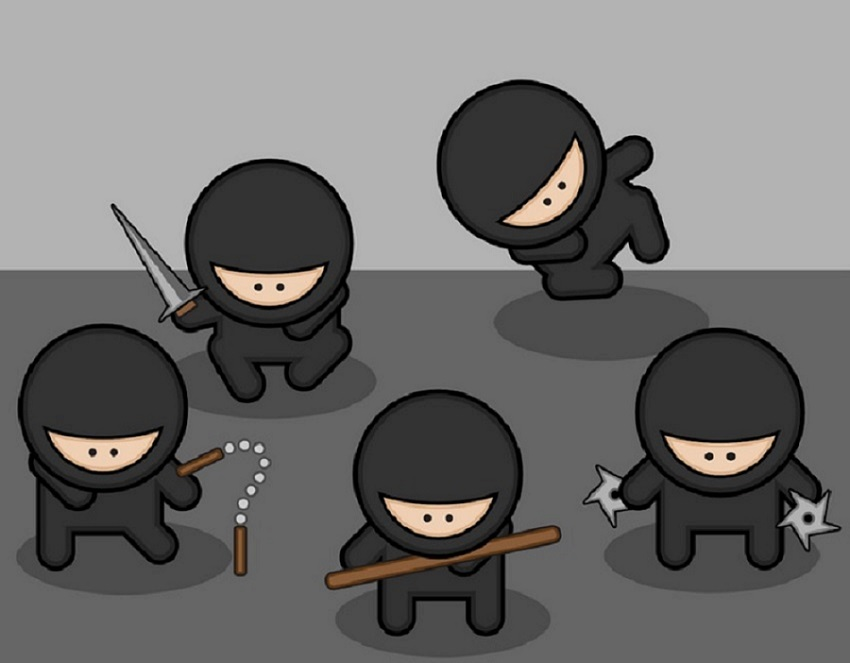
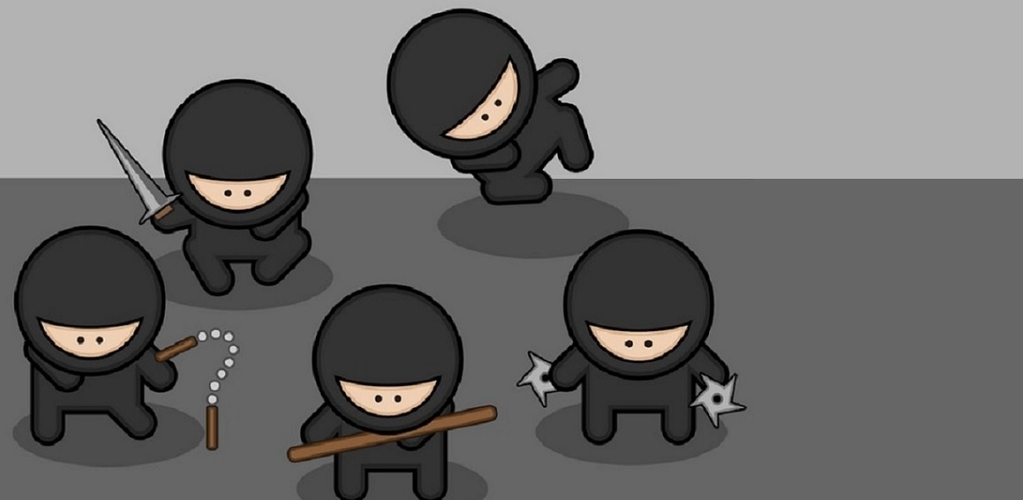
added assassins roster

diff --git a/views/assassins.html b/views/assassins.html
@@ -8,9 +8,17 @@
 
 	<!-- RECORD USER ACHIEVEMENTS -->
 	<script src="../js/Achievements/trackers.js"></script>
-	<script src="../js/Achievements/cookies.js"></script>		
+	<script src="../js/Achievements/cookies.js"></script>	
+<style>
+	#darktheme{
+		background-color: #4f4f4f;
+	}
+	#top_image{
+		border: 4px solid black;
+	}
+</style>
 </head>
-<body>
+<body id="darktheme">
 	<div class="main-container" id="top">
 		<!-- HEADER STARTS HERE -->
 		<header>
@@ -35,45 +43,260 @@
 			<div class="hero-image">
 				<div class="overlay right">
 					<div class="overlay-text">
-						TASA Assassins
+						<span class="highlight">TASA</span> Assassins<br>
+						Who will <span class="highlight">rise?</span>
 					</div>
 					<div class="triangle"></div>
 				</div>
-				<center><img src="../images/hero/101.jpg" alt=""></center>
+				<center><img src="../images/hero/101.jpg" alt="" width="1024px" height="500px" id="top_image"></center>
 			</div>
-
 			<br><br>
 			<div class="row-container">
-			<span class="small-font wrap" style="letter-spacing: -1px;"><center>
-				<h1 class="title"> Killed in Action </h1>
-			</center></span>
-			<br><br>
-			<div class="about">
-				<div class="row-container">
-					<div class="row five">
-						<div class="portrait">
-							<img src="../images/portrait/black.jpg">
-							<img src="../images/portrait/black.jpg">
+				<span class="small-font wrap" style="letter-spacing: -1px;">
+					<center><h1 class="title"> Killed in Action: <span class="highlight">5</span></h1>
+					Updated 2/6 10:27pm</center>
+				</span>
+				<br>
+
+				<div class="about">
+					<div class="row-container">
+						<div class="row five">
+							<div class="portrait">
+								<img src="../images/portrait/black.jpg">
+								<img src="../images/portrait/black.jpg">
+							</div>
+							<div class="portrait">
+								<img src="../images/portrait/black.jpg">
+								<img src="../images/portrait/black.jpg">
+							</div>
+							<div class="portrait">
+								<img src="../images/portrait/black.jpg">
+								<img src="../images/portrait/black.jpg">
+							</div>
+							<div class="portrait">
+								<img src="../images/portrait/black.jpg">
+								<img src="../images/portrait/black.jpg">
+							</div>
+							<div class="portrait">
+								<img src="../images/portrait/black.jpg">
+								<img src="../images/portrait/black.jpg">
+							</div>
 						</div>
-						<div class="portrait">
-							<img src="../images/portrait/black.jpg">
-							<img src="../images/portrait/black.jpg">
+					</div>
+				</div>
+
+				<span class="small-font wrap" style="letter-spacing: -1px;">
+					<center><h1 class="title"> TASA Assassins <span class="highlight"></span> </h1></center>
+				</span>
+				<br>
+
+				<div class="about">
+					<div class="row-container">
+						<div class="row five">
+							<div class="portrait">
+								<img src="../images/portrait/assassins/alan.jpg">
+								<img src="../images/portrait/assassins/alan.jpg">
+								<h1> Alan Cooper </h1>
+							</div>
+							<div class="portrait">
+								<img src="../images/portrait/assassins/alex.jpg">
+								<img src="../images/portrait/assassins/alex.jpg">
+								<h1> Alex Chiu </h1>
+							</div>
+							<div class="portrait">
+								<img src="../images/portrait/assassins/andrew.jpg">
+								<img src="../images/portrait/assassins/andrew.jpg">
+								<h1> Andrew Ngo </h1>
+							</div>
+							<div class="portrait">
+								<img src="../images/portrait/assassins/angel.jpg">
+								<img src="../images/portrait/assassins/angel.jpg">
+								<h1> Angel Chui </h1>
+							</div>
+							<div class="portrait">
+								<img src="../images/portrait/assassins/ann.jpg">
+								<img src="../images/portrait/assassins/ann.jpg">
+								<h1> Ann Wang </h1>
+							</div>
 						</div>
-						<div class="portrait">
-							<img src="../images/portrait/black.jpg">
-							<img src="../images/portrait/black.jpg">
+						<br>
+
+						<div class="row five">
+							<div class="portrait">
+								<img src="../images/portrait/assassins/ban.jpg">
+								<img src="../images/portrait/assassins/ban.jpg">
+								<h1> Ban-Jian Pan </h1>
+							</div>
+							<div class="portrait">
+								<img src="../images/portrait/assassins/ben.jpg">
+								<img src="../images/portrait/assassins/ben.jpg">
+								<h1> Ben Chaiprasert </h1>
+							</div>
+							<div class="portrait">
+								<img src="../images/portrait/assassins/chelsea.jpg">
+								<img src="../images/portrait/assassins/chelsea.jpg">
+								<h1> Chelsea Wang </h1>
+							</div>
+							<div class="portrait">
+								<img src="../images/portrait/assassins/claire.jpg">
+								<img src="../images/portrait/assassins/claire.jpg">
+								<h1> Claire Pippin </h1>
+							</div>
+							<div class="portrait">
+								<img src="../images/portrait/assassins/ericc.jpg">
+								<img src="../images/portrait/assassins/ericc.jpg">
+								<h1> Eric Chen </h1>
+							</div>
 						</div>
-						<div class="portrait">
-							<img src="../images/portrait/black.jpg">
-							<img src="../images/portrait/black.jpg">
+						<br>
+
+						<div class="row five">
+							<div class="portrait">
+								<img src="../images/portrait/assassins/erics.jpg">
+								<img src="../images/portrait/assassins/erics.jpg">
+								<h1> Eric Sun </h1>
+							</div>
+							<div class="portrait">
+								<img src="../images/portrait/assassins/george.jpg">
+								<img src="../images/portrait/assassins/george.jpg">
+								<h1> George Du </h1>
+							</div>
+							<div class="portrait">
+								<img src="../images/portrait/assassins/hiro.jpg">
+								<img src="../images/portrait/assassins/hiro.jpg">
+								<h1> Hiro Chang </h1>
+							</div>
+							<div class="portrait">
+								<img src="../images/portrait/assassins/irene.jpg">
+								<img src="../images/portrait/assassins/irene.jpg">
+								<h1> Irene Chiang </h1>
+							</div>
+							<div class="portrait">
+								<img src="../images/portrait/assassins/jannery.jpg">
+								<img src="../images/portrait/assassins/jannery.jpg">
+								<h1> Jannery Tam </h1>
+							</div>
 						</div>
-						<div class="portrait">
-							<img src="../images/portrait/black.jpg">
-							<img src="../images/portrait/black.jpg">
+						<br>
+
+						<div class="row five">
+							<div class="portrait">
+								<img src="../images/portrait/assassins/jay.jpg">
+								<img src="../images/portrait/assassins/jay.jpg">
+								<h1> Jay Chen </h1>
+							</div>
+							<div class="portrait">
+								<img src="../images/portrait/assassins/jenny.jpg">
+								<img src="../images/portrait/assassins/jenny.jpg">
+								<h1> Jenny Cheng </h1>
+							</div>
+							<div class="portrait">
+								<img src="../images/portrait/assassins/jeremy.jpg">
+								<img src="../images/portrait/assassins/jeremy.jpg">
+								<h1> Jeremy Hay </h1>
+							</div>
+							<div class="portrait">
+								<img src="../images/portrait/assassins/jing.jpg">
+								<img src="../images/portrait/assassins/jing.jpg">
+								<h1> Jing Hu </h1>
+							</div>
+							<div class="portrait">
+								<img src="../images/portrait/assassins/jocelyn.jpg">
+								<img src="../images/portrait/assassins/jocelyn.jpg">
+								<h1> Jocelyn Harnold </h1>
+							</div>
+						</div>
+						<br>
+
+						<div class="row five">
+							<div class="portrait">
+								<img src="../images/portrait/assassins/kei.jpg">
+								<img src="../images/portrait/assassins/kei.jpg">
+								<h1> Kei Hsu </h1>
+							</div>
+							<div class="portrait">
+								<img src="../images/portrait/assassins/lauren.jpg">
+								<img src="../images/portrait/assassins/lauren.jpg">
+								<h1> Lauren Chen </h1>
+							</div>
+							<div class="portrait">
+								<img src="../images/portrait/assassins/lillianne.jpg">
+								<img src="../images/portrait/assassins/lillianne.jpg">
+								<h1> Lillianne Le </h1>
+							</div>
+							<div class="portrait">
+								<img src="../images/portrait/assassins/luan.jpg">
+								<img src="../images/portrait/assassins/luan.jpg">
+								<h1> Luan Lam </h1>
+							</div>
+							<div class="portrait">
+								<img src="../images/portrait/assassins/megan.jpg">
+								<img src="../images/portrait/assassins/megan.jpg">
+								<h1> Megan Ngai </h1>
+							</div>
+						</div>
+						<br>
+
+						<div class="row five">
+							<div class="portrait">
+								<img src="../images/portrait/assassins/natasha.jpg">
+								<img src="../images/portrait/assassins/natasha.jpg">
+								<h1> Natasha Hsu </h1>
+							</div>
+							<div class="portrait">
+								<img src="../images/portrait/assassins/robert.jpg">
+								<img src="../images/portrait/assassins/robert.jpg">
+								<h1> Robert Guan </h1>
+							</div>
+							<div class="portrait">
+								<img src="../images/portrait/assassins/sammy.jpg">
+								<img src="../images/portrait/assassins/sammy.jpg">
+								<h1> Sammy Chien </h1>
+							</div>
+							<div class="portrait">
+								<img src="../images/portrait/assassins/shumeng.jpg">
+								<img src="../images/portrait/assassins/shumeng.jpg">
+								<h1> Shumeng Zhao </h1>
+							</div>
+							<div class="portrait">
+								<img src="../images/portrait/assassins/stephen.jpg">
+								<img src="../images/portrait/assassins/stephen.jpg">
+								<h1> Stephen Huang </h1>
+							</div>
+						</div>
+						<br>
+
+						<div class="row five">
+							<div class="portrait">
+								<img src="../images/portrait/assassins/tony.jpg">
+								<img src="../images/portrait/assassins/tony.jpg">
+								<h1> Tony Ly </h1>
+							</div>
+							<div class="portrait">
+								<img src="../images/portrait/assassins/wenwen.jpg">
+								<img src="../images/portrait/assassins/wenwen.jpg">
+								<h1> Wenwen Wang </h1>
+							</div>
+							<div class="portrait">
+								<img src="../images/portrait/assassins/winston.jpg">
+								<img src="../images/portrait/assassins/winston.jpg">
+								<h1> Winston Hung </h1>
+							</div>
+							<div class="portrait">
+								<img src="../images/portrait/assassins/yoann.jpg">
+								<img src="../images/portrait/assassins/yoann.jpg">
+								<h1> Yoann Dequin </h1>
+							</div>
+							<div class="portrait">
+								<img src="../images/portrait/assassins/z.jpg">
+								<img src="../images/portrait/assassins/z.jpg">
+								<h1>  </h1>
+							</div>
 						</div>
 					</div>
 				</div>
 			</div>
+		</div>
 		<div class="event-container">
 
 
